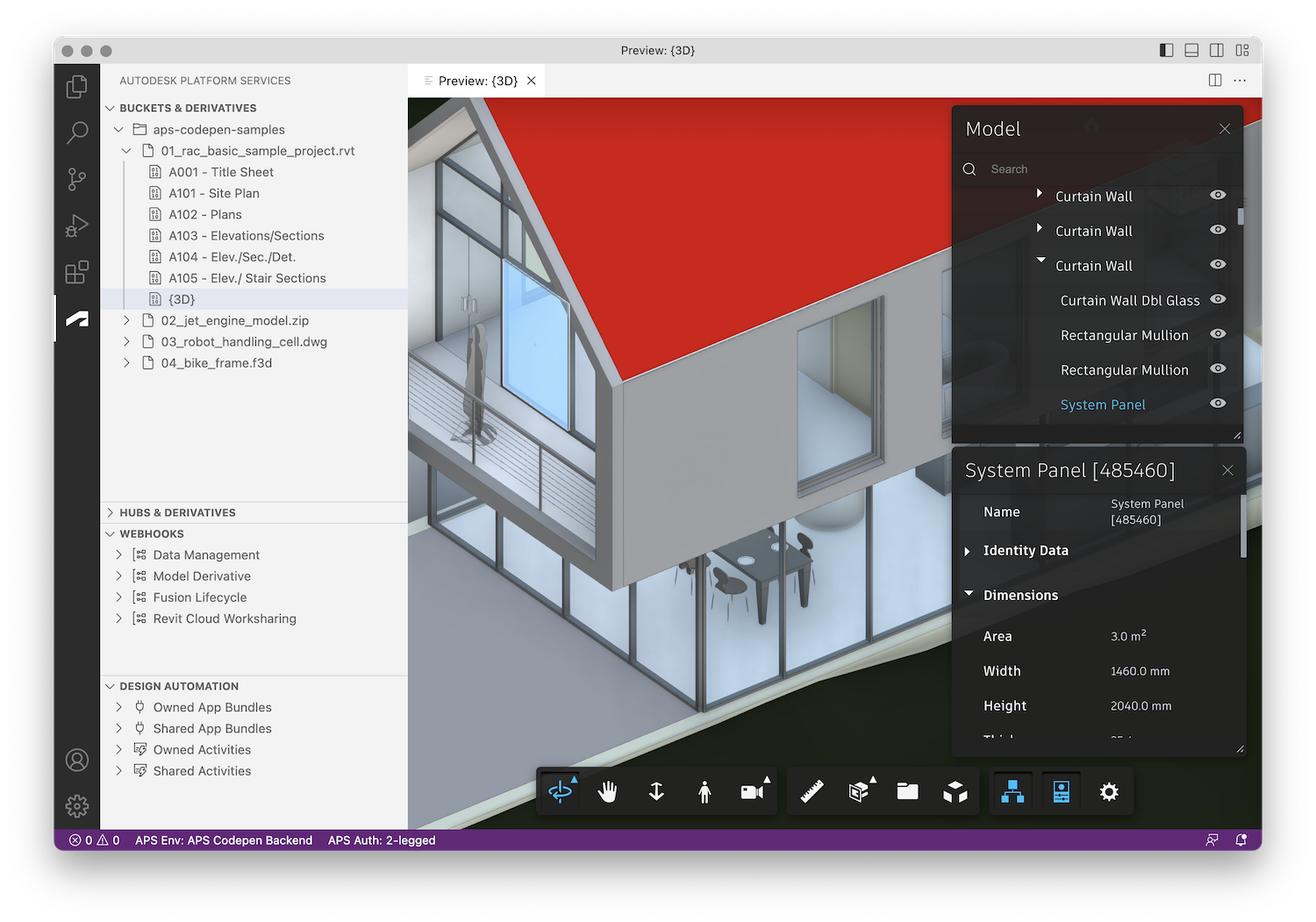
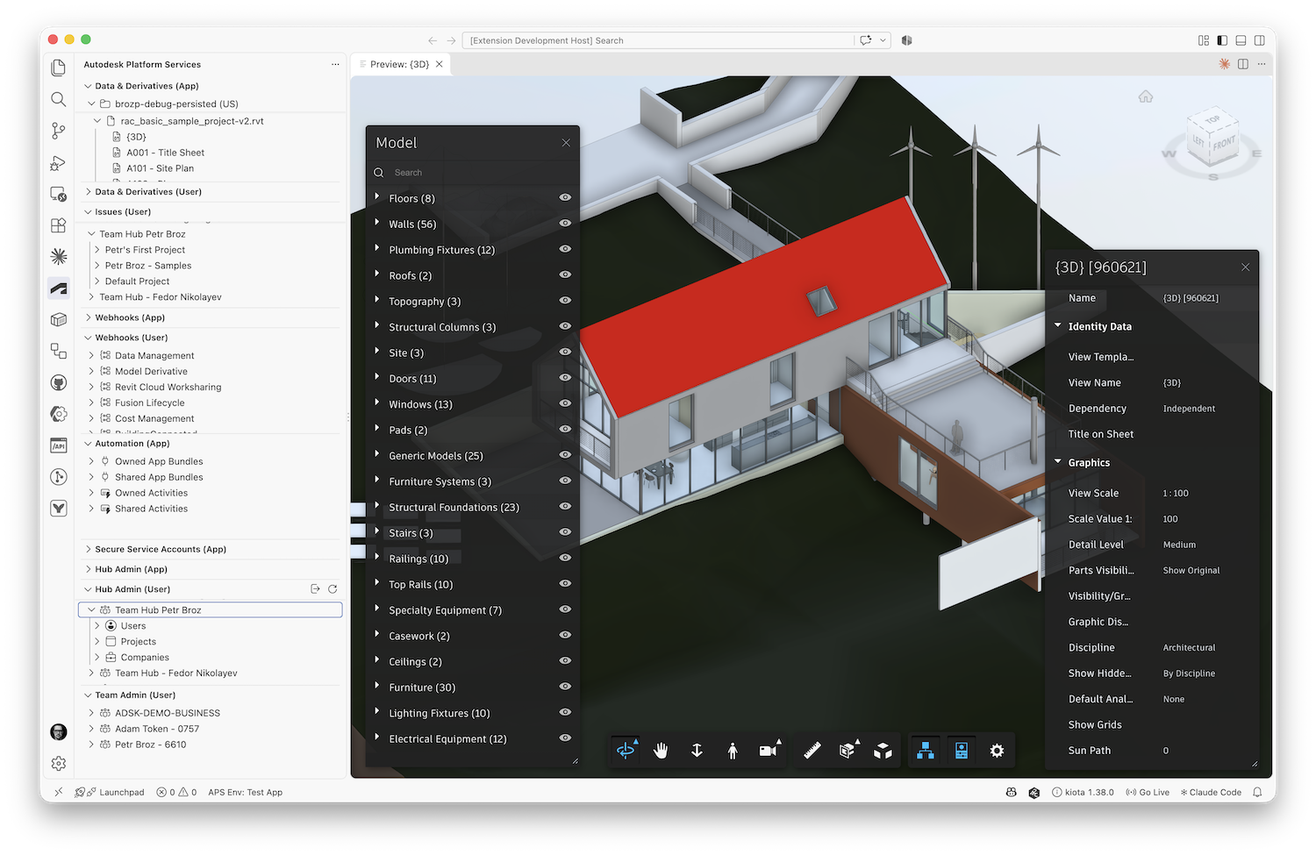
Fix formatting and improve clarity in README.md.

diff --git a/README.md b/README.md
@@ -1,40 +1,39 @@
-# Autodesk Platform Services (VSCode Extension)
+# Autodesk Platform Services (VS Code extension)
 
 ![Visual Studio Marketplace Version](https://vsmarketplacebadges.dev/version/petrbroz.vscode-forge-tools.png)
 ![Visual Studio Marketplace Installs](https://vsmarketplacebadges.dev/installs/petrbroz.vscode-forge-tools.png)
 ![Visual Studio Marketplace Downloads](https://vsmarketplacebadges.dev/downloads/petrbroz.vscode-forge-tools.png)
 ![Visual Studio Marketplace Rating](https://vsmarketplacebadges.dev/rating/petrbroz.vscode-forge-tools.png)
 
-![Open VSX Version](https://img.shields.io/open-vsx/v/petrbroz/vscode-forge-tools
-)
-![Open VSX Installs](https://img.shields.io/open-vsx/dt/petrbroz/vscode-forge-tools
-)
-![Open VSX Rating](https://img.shields.io/open-vsx/rating/petrbroz/vscode-forge-tools
-)
+![Open VSX Version](https://img.shields.io/open-vsx/v/petrbroz/vscode-forge-tools)
+![Open VSX Installs](https://img.shields.io/open-vsx/dt/petrbroz/vscode-forge-tools)
+![Open VSX Rating](https://img.shields.io/open-vsx/rating/petrbroz/vscode-forge-tools)
 
 [![license](https://img.shields.io/badge/license-MIT-blue.png)](http://opensource.org/licenses/MIT)
 
-[Visual Studio Code](https://code.visualstudio.com) extension for accessing [Autodesk Platform Services](https://aps.autodesk.com) services and content.
+[Visual Studio Code](https://code.visualstudio.com) extension for accessing [Autodesk Platform Services](https://aps.autodesk.com) (APS) services and content.
 
 ![Preview](https://github.com/autodesk-platform-services/aps-vscode-extension/raw/develop/media/docs/screenshot.png)
 
-> Note: [Autodesk Forge is now Autodesk Platform Services](https://aps.autodesk.com/blog/autodesk-forge-becoming-autodesk-platform-services) but you may still see the _Forge_ brand used in different areas of this extension. These references have been kept to maintain backwards compatibility.
+> Note: [Autodesk Forge is now Autodesk Platform Services](https://aps.autodesk.com/blog/autodesk-forge-becoming-autodesk-platform-services), but you may still see the _Forge_ brand in a few places: the `autodesk.forge.*` settings, the extension ID (`petrbroz.vscode-forge-tools`), and the callback URL described below. These have been kept to maintain backwards compatibility.
 
 ## Requirements
 
-- [Visual Studio Code](https://code.visualstudio.com) version 1.95.0 or newer
+- [Visual Studio Code](https://code.visualstudio.com) version 1.95.0 or newer (or a compatible editor such as [Cursor](https://cursor.com))
 - APS app credentials ([tutorial](https://aps.autodesk.com/en/docs/oauth/v2/tutorials/create-app))
 - **If you plan to sign in with 3-legged OAuth** (see [Authentication](#authentication)), your APS app
   must have `vscode://petrbroz.vscode-forge-tools/callback` registered as a callback URL on
-  [https://aps.autodesk.com/myapps](https://aps.autodesk.com/myapps) - without it, sign-in will fail with
-  a redirect URI mismatch. The `vscode://` scheme is specific to Visual Studio Code itself; other
+  [https://aps.autodesk.com/myapps](https://aps.autodesk.com/myapps), or sign-in will fail with
+  a redirect URI mismatch. The `vscode://` scheme is specific to Visual Studio Code itself. Other
   VS Code-based editors register their own URI scheme, so the callback URL to register there uses that
-  editor's scheme instead - for example `cursor://petrbroz.vscode-forge-tools/callback` in
+  editor's scheme instead, for example `cursor://petrbroz.vscode-forge-tools/callback` in
   [Cursor](https://cursor.com), or `antigravity-ide://petrbroz.vscode-forge-tools/callback` in
   [Antigravity](https://antigravity.google). The extension always shows you the exact URL to register the
   first time you sign in (see [Authentication](#authentication)).
 
 ## Installation
+
+The extension is published on the [Visual Studio Marketplace](https://marketplace.visualstudio.com/items?itemName=petrbroz.vscode-forge-tools) and on [Open VSX](https://open-vsx.org/extension/petrbroz/vscode-forge-tools) (used by editors such as VSCodium, Cursor, and Windsurf).
 
 While in Visual Studio Code:
 
@@ -42,51 +41,59 @@ While in Visual Studio Code:
 
 ![Install extension](./media/docs/01-install-extension.gif)
 
-2. When you activate the _Autodesk Platform Services_ extension for the first time, it'll guide you through creating your first "environment". An environment is basically a configuration for a specific APS application, including its client ID and secret, or region, for example.
+2. When you activate the _Autodesk Platform Services_ extension for the first time, it guides you through creating your first "environment". An environment is a configuration for a specific APS application, including its client ID and secret, or region, for example.
 
 ![Setup extension](./media/docs/02-setup-extension.gif)
 
-> You can configure additional environments or update existing ones by going to _User Settings_ (`Cmd`+`,` on macOS or `Ctrl`+`,` on Windows), searching for _autodesk environments_, clicking the _Edit in settings.json_ link, and modifying the JSON settings manually. Switch to _User_ or _Workspace_ tab depending on whether you want to persist the settings globally (for all instances of the editor) or locally (only for a specific workspace).
+> You can configure additional environments or update existing ones by going to _User Settings_ (`Cmd`+`,` on macOS or `Ctrl`+`,` on Windows), searching for _autodesk environments_, clicking the _Edit in settings.json_ link, and modifying the JSON settings manually. Switch to the _User_ or _Workspace_ tab depending on whether you want to persist the settings globally (for all instances of the editor) or locally (only for a specific workspace). Changes made directly in `settings.json` are applied without reloading the window.
 
-## Extension Settings
+## Extension settings
 
 The extension exposes the following settings:
 
-- `autodesk.forge.environments` - array of objects representing different APS applications or "environments"; each environment can specify the following properties:
-  - `title` (required) - unique name of the environment (will be shown in the status bar and listed when switching between other environments)
-  - `clientId` (required) - APS client ID
-  - `clientSecret` (required) - APS client secret
-  - `region` - data region for storing design data; can be `US` (default), `EMEA`, `AUS`, `CAN`, `DEU`, `IND`, `JPN`, or `GBR`
-- `autodesk.forge.data.defaultContentType` - content type to use for all files uploaded to OSS
-- `autodesk.forge.data.uploadChunkSize` - size of individual chunks (in bytes) when uploading files to OSS with the resumable functionality
-- `autodesk.forge.enableTeamAdminApi` - enable the _Team Admin (user)_ view for the Team Admin API (Beta); when enabled, signing in with 3-legged OAuth requests additional scopes (`tmadmapi:*`), so your APS app must have the Team Admin API enabled
-- `autodesk.forge.viewer.extensions` - array of Viewer [extension](https://aps.autodesk.com/en/docs/viewer/v7/reference/Extensions) IDs (for example, `Autodesk.VisualClusters` or `Autodesk.DocumentBrowser`) to be automatically loaded when previewing derivatives
-- `autodesk.forge.viewer.api` - Model Derivative API used by the viewer; by default, the viewer will determine the appropriate API based on the viewable output format (SVF vs SVF2)
-- `autodesk.forge.viewer.env` - Model Derivative environment used by the viewer; by default, the viewer will determine the appropriate environment based on the viewable output format (SVF vs SVF2)
+- `autodesk.forge.environments`: array of objects representing different APS applications or "environments". Each environment can specify the following properties:
+  - `title` (required): unique name of the environment (shown in the status bar and listed when switching between environments)
+  - `clientId` (required): APS client ID
+  - `clientSecret` (required): APS client secret
+  - `host`: APS host URL (default `https://developer.api.autodesk.com`)
+  - `region`: data region for storing design data; can be `US` (default), `EMEA`, `AUS`, `CAN`, `DEU`, `IND`, `JPN`, or `GBR`
+  - `designAutomationRegion`: Design Automation region; can be `us-east` (default) or `us-west`
+- `autodesk.forge.data.defaultContentType`: content type to use for all files and empty objects uploaded to OSS (default `application/octet-stream`)
+- `autodesk.forge.data.uploadChunkSize`: size of individual chunks (in bytes) when uploading files to OSS with the resumable functionality (default `2097152`)
+- `autodesk.forge.data.pageSize`: number of buckets or objects to fetch per page in the _Data & Derivatives (app)_ view before showing a "Load more" item (default `32`)
+- `autodesk.forge.data.hubsPageSize`: number of projects, folder items, or versions to fetch per page in the _Data & Derivatives (user)_ view before showing a "Load more" item (default `32`)
+- `autodesk.forge.enableTeamAdminApi`: enable the _Team Admin (user)_ view for the Team Admin API (Beta). When enabled, signing in with 3-legged OAuth requests additional scopes (`tmadmapi:*`), so your APS app must have the Team Admin API enabled. Sign in again after changing this setting.
+- `autodesk.forge.viewer.extensions`: array of Viewer [extension](https://aps.autodesk.com/en/docs/viewer/v7/reference/Extensions) IDs (for example, `Autodesk.VisualClusters` or `Autodesk.DocumentBrowser`) to load automatically when previewing derivatives
+- `autodesk.forge.viewer.api`: Model Derivative API used by the viewer; by default, the viewer determines the appropriate API based on the viewable output format (SVF vs SVF2)
+- `autodesk.forge.viewer.env`: Model Derivative environment used by the viewer; by default, the viewer determines the appropriate environment based on the viewable output format (SVF vs SVF2)
 
-Here's an example of how the extension settings might look like in the JSON format:
+Here's an example of what the extension settings might look like in JSON format:
 
 ![Extension Settings](./media/docs/extension-settings.png)
 
 ## Features
 
-### Multiple Environments
+### Multiple environments
 
-If you have configured multiple APS environments, you can switch between them via the status bar at the bottom, or using the `aps.switchEnvironment` command from the [Command Palette](https://code.visualstudio.com/docs/getstarted/userinterface#_command-palette). The extension will always initialize itself based on the _first_ environment in the list.
+If you have configured multiple APS environments, you can switch between them via the status bar at the bottom, or using the `aps.switchEnvironment` command from the [Command Palette](https://code.visualstudio.com/docs/getstarted/userinterface#_command-palette). The extension always initializes itself based on the _first_ environment in the list.
 
-> Note: if you have configured the extension both in the _User_ scope and in the _Workspace_ scope, the extension will present the list of environments from the _Workspace_ scope as it has higher precedence.
+> Note: if you have configured the extension both in the _User_ scope and in the _Workspace_ scope, the extension presents the list of environments from the _Workspace_ scope as it has higher precedence.
 
 ### Authentication
 
-Plain 2-legged (app) access is always available by default, and backs every "(app)" view below. Views and commands that need a user context — _Data & Derivatives (user)_, _Issues (user)_, and _Webhooks (user)_ — show a "Sign in to APS" welcome button until you're signed in; you can also sign in via the `aps.auth.login` command or the VS Code Accounts menu. Signing in offers a choice of 3-legged OAuth (confidential client), 3-legged OAuth with PKCE (public client, no secret), a Secure Service Account (sign in on behalf of a service account using its private key), or pasting an access token obtained from another APS application. Sessions are persisted per environment in VS Code's encrypted secret storage, so they survive a window reload, and 3-legged/PKCE tokens are refreshed automatically. Once signed in, use the "Logout" action in the title bar of any user-context view (or the `aps.auth.logout` command) to sign out again.
+Plain 2-legged (app) access is always available by default, and backs every "(app)" view below. Views and commands that need a user context (_Data & Derivatives (user)_, _Issues (user)_, _Webhooks (user)_, _Hub Admin (user)_, and _Team Admin (user)_) show a "Sign in to APS" welcome button until you're signed in. You can also sign in via the `aps.auth.login` command or the VS Code Accounts menu. Signing in offers a choice of 3-legged OAuth (confidential client), 3-legged OAuth with PKCE (public client, no secret), a Secure Service Account (sign in on behalf of a service account using its private key), or pasting an access token obtained from another APS application. Sessions are persisted per environment in VS Code's encrypted secret storage, so they survive a window reload, and 3-legged/PKCE tokens are refreshed automatically. Once signed in, use the "Logout" action in the title bar of any user-context view (or the `aps.auth.logout` command) to sign out again.
 
-> **Important:** the 3-legged OAuth flows ("3-legged OAuth" and "3-legged OAuth with PKCE") redirect back into the editor via a `<uriScheme>://petrbroz.vscode-forge-tools/callback` URI (resolved through `vscode.env.asExternalUri`, so it also works in remote/SSH, Codespaces, and vscode.dev). `<uriScheme>` is `vscode` in Visual Studio Code, but other VS Code-based editors register their own scheme instead - for example `cursor` in [Cursor](https://cursor.com) or `antigravity-ide` in [Antigravity](https://antigravity.google) - so the callback URL to register depends on which editor you're running the extension in. **You must register this URL - or, when working in a remote/web context, whatever URL `vscode.env.asExternalUri` resolves it to - as a callback URL for your application on [https://aps.autodesk.com/myapps](https://aps.autodesk.com/myapps), or sign-in will fail.** The extension will also show you this URL, with a "Copy URL" action, the first time you use one of these sign-in methods.
+> **Important:** the 3-legged OAuth flows ("3-legged OAuth" and "3-legged OAuth with PKCE") redirect back into the editor via a `<uriScheme>://petrbroz.vscode-forge-tools/callback` URI (resolved through `vscode.env.asExternalUri`, so it also works in remote/SSH, Codespaces, and vscode.dev). `<uriScheme>` is `vscode` in Visual Studio Code, but other VS Code-based editors register their own scheme instead, for example `cursor` in [Cursor](https://cursor.com) or `antigravity-ide` in [Antigravity](https://antigravity.google), so the callback URL to register depends on which editor you're running the extension in. **You must register this URL (or, when working in a remote/web context, whatever URL `vscode.env.asExternalUri` resolves it to) as a callback URL for your application on [https://aps.autodesk.com/myapps](https://aps.autodesk.com/myapps), or sign-in will fail.** The extension also shows you this URL, with a "Copy URL" action, the first time you use one of these sign-in methods.
 
-### Data & Derivatives (app) View
+To get an access token for use in other tools, run the `Generate Access Token` command (`aps.auth.getAccessToken`).
 
-The _Data & Derivatives (app)_ view allows you to browse [Data Management](https://aps.autodesk.com/en/docs/data/v2/developers_guide/overview) OSS (object simple storage) content, create buckets, upload & download files, translate them using the [Model Derivative](https://aps.autodesk.com/en/docs/model-derivative/v2) service, and even preview the generated derivatives in a custom editor tab. All derivatives are listed as children of their corresponding objects in the tree. If there are no derivatives yet, or if there's been an issue with the translation, the tree view will provide additional information.
+![Generate access token](./media/docs/08-generate-token.gif)
 
-Here's some actions you can try:
+### Data & Derivatives (app) view
+
+The _Data & Derivatives (app)_ view allows you to browse [Data Management](https://aps.autodesk.com/en/docs/data/v2/developers_guide/overview) OSS (Object Storage Service) content, create buckets, upload and download files (including drag and drop from your OS onto a bucket), translate them using the [Model Derivative](https://aps.autodesk.com/en/docs/model-derivative/v2) service, and preview the generated derivatives in a custom editor tab. All derivatives are listed as children of their corresponding objects in the tree. If there are no derivatives yet, or if there's been an issue with the translation, the tree view provides additional information. Large buckets are paged; use the "Load more" item at the end of a list to fetch more entries.
+
+Here are some actions you can try:
 
 1. Create a new bucket to store your designs.
 
@@ -106,52 +113,95 @@ Here's some actions you can try:
 
 ![Preview design](./media/docs/06-preview-design.gif)
 
-### Data & Derivatives (user) View
+5. Copy the object's URN (for use with other APIs and tools) from its context menu.
 
-Similar to the _Data & Derivatives (app)_ view, but using a signed-in user context instead, allowing you to browse your existing design data hosted in BIM 360, ACC, and other products built with the Autodesk Platform Services. See [Authentication](#authentication) above for how to sign in.
+![Get model URN](./media/docs/07-get-model-urn.gif)
 
-### Issues (user) View
+Other actions available from the context menu include creating empty objects, copying, renaming, and deleting objects, generating signed URLs, and viewing derivative manifests, thumbnails, trees, and properties.
+
+### Data & Derivatives (user) view
+
+Similar to the _Data & Derivatives (app)_ view, but using a signed-in user context instead, allowing you to browse your existing design data hosted in BIM 360, ACC, and other products built with Autodesk Platform Services. See [Authentication](#authentication) above for how to sign in.
+
+### Issues (user) view
 
 The _Issues (user)_ view lets you browse [ACC/BIM 360 issues](https://aps.autodesk.com/en/docs/issues/v2/developers_guide/overview/) in a hub → project → issue tree, and open a details panel for an individual issue that also lists its comments, if any. Requires the same signed-in user context as the other "(user)" views.
 
-### Webhooks (app) and Webhooks (user) Views
+### Webhooks (app) and Webhooks (user) views
 
-The _Webhooks (app)_ and _Webhooks (user)_ views can be used to browse and manage app-owned and user-owned webhooks, respectively, in the [Webhooks](https://aps.autodesk.com/en/docs/webhooks/v1/developers_guide/overview) service, across all supported webhook systems (Data Management, Model Derivative, Cost Management, Forma Issues, Forma Reviews, Autodesk Tandem, and more).
+The _Webhooks (app)_ and _Webhooks (user)_ views can be used to browse and manage app-owned and user-owned webhooks, respectively, in the [Webhooks](https://aps.autodesk.com/en/docs/webhooks/v1/developers_guide/overview) service, across all supported webhook systems (Data Management, Model Derivative, Cost Management, Forma Issues, Forma Reviews, Autodesk Tandem, and more). Inactive webhooks are marked with a badge.
 
-### Design Automation (app) View
+### Automation (app) view
 
-The _Design Automation (app)_ view can be used for browsing [Design Automation](https://aps.autodesk.com/en/docs/design-automation/v3/developers_guide/overview) entities such as app bundles and activities, creating and updating them, and submitting work items against an activity. It also provides a context menu that can be used to view additional details of individual bundles or activities.
+The _Automation (app)_ view can be used for browsing [Design Automation](https://aps.autodesk.com/en/docs/design-automation/v3/developers_guide/overview) entities such as app bundles and activities, creating and updating them (including their aliases and versions), and submitting work items against an activity. Work item progress is shown in a notification that can be cancelled. The view also provides a context menu for viewing additional details of individual bundles or activities. The Design Automation region is configured per environment (see `designAutomationRegion` in [Extension settings](#extension-settings)).
 
-### Secure Service Accounts (app) View
+### Secure Service Accounts (app) view
 
-Manage your [Secure Service Accounts](https://aps.autodesk.com/en/docs/ssa/v1/developers_guide/overview/) and their keys through the _Secure Service Accounts (app)_ view and the context menu of individual tree items — including generating assertions and access tokens for a key — or use any commands starting with `Secure Service Accounts:`.
+Manage your [Secure Service Accounts](https://aps.autodesk.com/en/docs/ssa/v1/developers_guide/overview/) and their keys through the _Secure Service Accounts (app)_ view and the context menu of individual tree items, including generating assertions and access tokens for a key. You can also use any commands starting with `Secure Service Accounts:`.
 
-### Team Admin (user) View
+### Hub Admin (app) and Hub Admin (user) views
+
+The _Hub Admin (app)_ and _Hub Admin (user)_ views provide read-only browsing of ACC account administration data, using the [Account Admin API](https://aps.autodesk.com/en/docs/acc/v1/overview/field-guide/admin/), in a hub → users, projects, and companies tree. Project nodes list their project users, and context menus let you view details and copy IDs. The _app_ variant uses 2-legged access, and the _user_ variant uses the signed-in user context.
+
+### Team Admin (user) view
 
 The _Team Admin (user)_ view uses the [Team Admin API](https://aps.autodesk.com/en/docs/team_admin/v1/developers_guide/overview/) (Beta) to browse the teams you administer in a team → users/product pools → assignments tree, invite users to a team, and assign or unassign products. The API only accepts 3-legged tokens of a team administrator, and your APS app must have the Team Admin API enabled. Turn on the `autodesk.forge.enableTeamAdminApi` setting, then sign in again with 3-legged OAuth (with or without PKCE). Enabling it makes sign-in request the additional `tmadmapi:*` scopes the API needs. The API runs in production, so changes affect real teams and seats.
 
-### Language Model Tools
+### Language model tools
 
-The extension contributes [language model tools](https://code.visualstudio.com/api/extension-guides/tools) that let the chat in agent mode operate on APS resources of the current environment: listing and creating OSS buckets, listing objects, uploading files, starting SVF2 translations and checking their status, and listing webhook events and creating webhooks. Tools that create or modify resources ask for confirmation before running. You can also reference the tools in your chat prompts explicitly, for example, `#apsCreateBucket` or `#apsUploadFile`.
+The extension contributes [language model tools](https://code.visualstudio.com/api/extension-guides/tools) that let the chat in agent mode operate on APS resources of the current environment:
 
-## Known Limitations & Issues
+| Tool | Reference | What it does |
+|---|---|---|
+| `aps_listBuckets` | `#apsListBuckets` | List OSS buckets |
+| `aps_createBucket` | `#apsCreateBucket` | Create an OSS bucket |
+| `aps_listObjects` | `#apsListObjects` | List objects in a bucket |
+| `aps_uploadFile` | `#apsUploadFile` | Upload a file to a bucket |
+| `aps_translateObject` | `#apsTranslateObject` | Start an SVF2 translation |
+| `aps_getTranslationStatus` | `#apsTranslationStatus` | Check the status of a translation |
+| `aps_listWebhookEvents` | `#apsListWebhookEvents` | List webhook events |
+| `aps_createWebhook` | `#apsCreateWebhook` | Create a webhook |
 
-### Derivatives in Custom Regions, and Status Code 406
+Tools that create or modify resources ask for confirmation before running. You can also reference the tools in your chat prompts explicitly, for example, `#apsCreateBucket` or `#apsUploadFile`.
 
-The Model Derivative service lets you store derivatives in a region of your choice. In our code we always assume that the derivatives are stored in the same region as the input object. Note that this can cause issues, for example, when you use the `Translate Object` or `Translate Object (Custom)` command on an object for which the derivatives are already available in another region. In that case you will get an error with status code 406, and you will need to delete the derivatives manually (using the `Delete Derivatives` command) before being able to translate the object again.
+### Localization
+
+The extension UI is available in English and Japanese, and follows the display language of your editor.
+
+## Known limitations and issues
+
+### Derivatives in custom regions, and status code 406
+
+The Model Derivative service lets you store derivatives in a region of your choice. The extension always assumes that the derivatives are stored in the same region as the input object. This can cause issues, for example, when you use the `Translate Object` or `Translate Object (Custom)` command on an object for which the derivatives are already available in another region. In that case you get an error with status code 406, and you need to delete the derivatives manually (using the `Delete Derivatives` command) before being able to translate the object again.
 
 ## Development
 
-- clone the repository
-- install and setup dependencies: `yarn install`
-- open the project in vscode and launch the _Launch Extension_ task; new vscode window will open
-- make sure you have at least one set of APS credentials configured (see [Getting Started](#getting-started) and [Extension Settings](##extension-settings))
-- click on the APS icon in the sidebar and start browsing
+- Clone the repository: `git clone https://github.com/autodesk-platform-services/aps-vscode-extension.git`
+- Install dependencies: `yarn install`
+- Open the project in VS Code and launch the _Launch Extension_ task. A new VS Code window opens.
+- Make sure you have at least one set of APS credentials configured (see [Installation](#installation) and [Extension settings](#extension-settings)).
+- Click the APS icon in the sidebar and start browsing.
 
-> When debugging a webview inside vscode, use the `Developer: Open Webview Developer Tools` and the `Developer: Reload Window` commands.
+Useful scripts:
+
+- `yarn build`: development build (extension and webviews) into `out/`
+- `yarn typecheck`: type-check the project with `tsc --noEmit`
+- `yarn test`: run the test suite
+
+> When debugging a webview inside VS Code, use the `Developer: Open Webview Developer Tools` and the `Developer: Reload Window` commands.
+
+The repository follows a strict layering (`models` ← `services` ← `commands`/`providers`/`tools`, with `webviews` depending only on `models`). See [CLAUDE.md](./CLAUDE.md) for details before contributing code. CI (typecheck, build, tests) runs on pushes and pull requests to `develop`, and pushing a version tag (`v*`) publishes the extension to both the Visual Studio Marketplace and Open VSX.
+
+## Contributing and feedback
+
+Bug reports and feature requests are welcome on the [issue tracker](https://github.com/autodesk-platform-services/aps-vscode-extension/issues). Pull requests should target the `develop` branch. For questions about the APS services themselves, see the [APS documentation](https://aps.autodesk.com/en/docs/) or [Stack Overflow](https://stackoverflow.com/questions/tagged/autodesk-forge).
 
 ## Troubleshooting
 
-### Cannot Preview Re-translated Designs
+### Cannot preview re-translated designs
 
-VSCode seems to be caching different HTTP requests made by the viewer, and when you try and preview a design that's been re-translated, the viewer may get a cached manifest JSON that's outdated. Unfortunately the only solution I've found for this is to clear any VSCode cache: https://theblogreaders.com/visual-studio-code-tip-cleanup-cache-folder-better-performance.
+VS Code caches some of the HTTP requests made by the viewer. When you preview a design that's been re-translated, the viewer may get a cached manifest JSON that's outdated. The only known workaround is to clear the VS Code cache: https://theblogreaders.com/visual-studio-code-tip-cleanup-cache-folder-better-performance.
+
+## License
+
+[MIT](./LICENSE)
